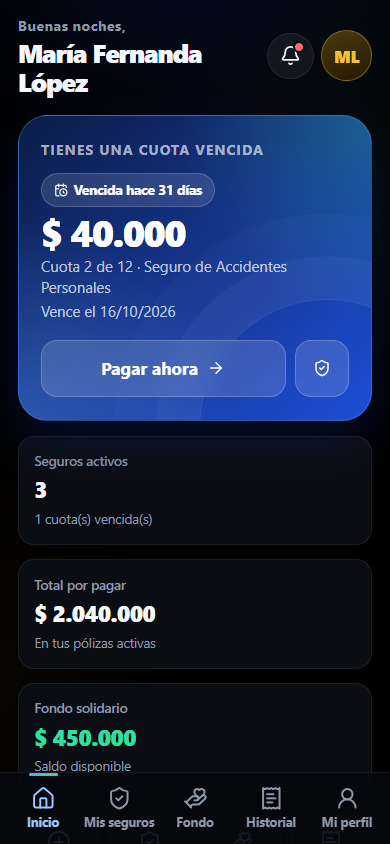
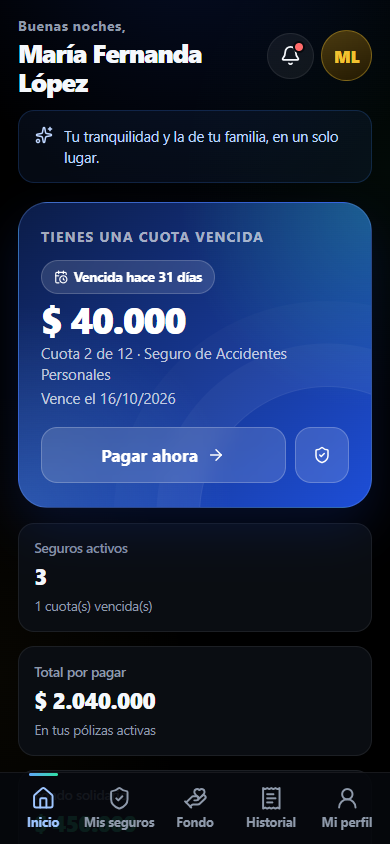
feat: configuracion global conectada y correccion de arranque

diff --git a/src/screens/admin/AdminSettings.tsx b/src/screens/admin/AdminSettings.tsx
@@ -405,23 +405,18 @@ export function AdminSettings() {
           <section className="card stack">
             <h2 className="card-title">Reglas de seguros y pagos</h2>
             <div className="list">
-              {[
-                { key: 'allowPurchase' as const, label: 'Permitir compra de seguros', sub: 'Los usuarios pueden adquirir pólizas desde el catálogo.' },
-                { key: 'showCatalogToGuests' as const, label: 'Mostrar catálogo sin sesión', sub: 'Solo informativo en la DEMO actual.' },
-              ].map((item) => (
-                <label key={item.key} className="list-row" style={{ cursor: 'pointer' }}>
-                  <span className="list-row__body">
-                    <span className="list-row__title">{item.label}</span>
-                    <span className="list-row__sub">{item.sub}</span>
-                  </span>
-                  <input
-                    type="checkbox"
-                    checked={Boolean(insurance[item.key])}
-                    onChange={(e) => setInsurance((i) => ({ ...i, [item.key]: e.target.checked }))}
-                    style={{ width: '1.4rem', height: '1.4rem', accentColor: '#3b82f6' }}
-                  />
-                </label>
-              ))}
+              <label className="list-row" style={{ cursor: 'pointer' }}>
+                <span className="list-row__body">
+                  <span className="list-row__title">Permitir compra de seguros</span>
+                  <span className="list-row__sub">Los usuarios pueden adquirir pólizas desde el catálogo.</span>
+                </span>
+                <input
+                  type="checkbox"
+                  checked={insurance.allowPurchase}
+                  onChange={(e) => setInsurance((i) => ({ ...i, allowPurchase: e.target.checked }))}
+                  style={{ width: '1.5rem', height: '1.5rem', accentColor: '#3b82f6' }}
+                />
+              </label>
             </div>
             <SelectInput
               label="Periodicidad predeterminada"
@@ -433,27 +428,17 @@ export function AdminSettings() {
                 { value: 'weekly', label: 'Semanal' },
                 { value: 'annual', label: 'Anual' },
               ]}
+              hint="Se preselecciona al comprar un seguro que tenga esa modalidad."
             />
-            <div className="grid grid--2">
-              <Field label="Días de gracia" hint="Días después del vencimiento antes de reportar mora.">
-                <input
-                  className="input"
-                  type="number"
-                  min={0}
-                  value={insurance.graceDays}
-                  onChange={(e) => setInsurance((i) => ({ ...i, graceDays: Number(e.target.value) }))}
-                />
-              </Field>
-              <Field label="Días de recordatorio" hint="Antelación de los avisos de pago.">
-                <input
-                  className="input"
-                  type="number"
-                  min={1}
-                  value={insurance.reminderDays}
-                  onChange={(e) => setInsurance((i) => ({ ...i, reminderDays: Number(e.target.value) }))}
-                />
-              </Field>
-            </div>
+            <Field label="Días de recordatorio" hint="Antelación de los avisos de cuota próxima a vencer.">
+              <input
+                className="input"
+                type="number"
+                min={1}
+                value={insurance.reminderDays}
+                onChange={(e) => setInsurance((i) => ({ ...i, reminderDays: Number(e.target.value) }))}
+              />
+            </Field>
             <div className="banner">
               <CircleAlert size={17} style={{ flexShrink: 0 }} />
               <span>Los cambios aplican a nuevas operaciones. Las pólizas existentes conservan sus condiciones.</span>

diff --git a/src/screens/app/HomeScreen.tsx b/src/screens/app/HomeScreen.tsx
@@ -5,9 +5,11 @@ import {
   CalendarClock,
   HandHeart,
   Landmark,
+  Megaphone,
   PlusCircle,
   ReceiptText,
   ShieldCheck,
+  Sparkles,
   Wallet,
 } from 'lucide-react'
 import { useAppState } from '../../hooks/useApp'
@@ -57,6 +59,32 @@ export function HomeScreen() {
           </button>
         </div>
       </div>
+
+      {(state.settings.notifications.announcementActive || state.settings.texts.homeBanner) && (
+        <div
+          className={`banner ${state.settings.notifications.announcementActive ? 'banner--gold' : ''}`}
+          style={{ marginTop: '0.8rem', alignItems: 'flex-start' }}
+          role="status"
+        >
+          {state.settings.notifications.announcementActive ? (
+            <Megaphone size={18} style={{ flexShrink: 0, marginTop: '0.05rem' }} />
+          ) : (
+            <Sparkles size={18} style={{ flexShrink: 0, marginTop: '0.05rem' }} />
+          )}
+          <div style={{ minWidth: 0 }}>
+            {state.settings.notifications.announcementActive && (
+              <strong style={{ display: 'block', marginBottom: '0.1rem' }}>
+                {state.settings.notifications.announcementTitle}
+              </strong>
+            )}
+            <span>
+              {state.settings.notifications.announcementActive
+                ? state.settings.notifications.announcementBody
+                : state.settings.texts.homeBanner}
+            </span>
+          </div>
+        </div>
+      )}
 
       {next ? (
         <section className="hero" style={{ marginTop: '1.1rem' }} aria-label="Próximo pago">

diff --git a/src/components/ui/common.tsx b/src/components/ui/common.tsx
@@ -1,4 +1,4 @@
-import type { ReactNode } from 'react'
+import { useState, type ReactNode } from 'react'
 import {
   ArrowLeft,
   BadgeCheck,
@@ -244,9 +244,7 @@ export function ProductIcon({
 export function LoadingScreen({ message = 'Cargando tu información…' }: { message?: string }) {
   return (
     <div className="splash">
-      <div className="brand__mark brand__mark--lg" aria-hidden="true">
-        FP
-      </div>
+      <BrandMark size="lg" />
       <div className="splash__spinner" aria-hidden="true" />
       <div>
         <p className="strong">{message}</p>
@@ -254,6 +252,21 @@ export function LoadingScreen({ message = 'Cargando tu información…' }: { mes
           FinPoliza
         </p>
       </div>
+    </div>
+  )
+}
+
+export function BrandMark({ size = 'md' }: { size?: 'md' | 'lg' }) {
+  const { settings } = useAppState()
+  const [failed, setFailed] = useState(false)
+  const logo = settings?.company?.logoUrl?.trim()
+  return (
+    <div className={`brand__mark ${size === 'lg' ? 'brand__mark--lg' : ''}`} aria-hidden="true">
+      {logo && !failed ? (
+        <img src={logo} alt="" className="brand__mark__img" onError={() => setFailed(true)} />
+      ) : (
+        'FP'
+      )}
     </div>
   )
 }

diff --git a/src/services/policies.ts b/src/services/policies.ts
@@ -1,6 +1,6 @@
 import type { Installment, Payment, PaymentMethod, Policy } from '../types'
 import { addPeriod, nowISO, todayISO } from '../lib/dates'
-import { formatTime } from '../lib/format'
+import { formatMoney, formatTime } from '../lib/format'
 import { uid } from '../lib/id'
 import { commit, hasPermission, requireSession, store } from './store'
 import { makeAudit } from './audit'
@@ -147,7 +147,7 @@ export async function payInstallment(input: PayInstallmentInput): Promise<Paymen
   const notification = makeNotification(ownerId, {
     type: 'payment_received',
     title: 'Pago registrado',
-    body: `Registramos tu pago de la cuota ${installment.number} por un valor de $${installment.amount.toLocaleString('es-CO')}.`,
+    body: `${state.settings.notifications.templates.paymentReceived} Cuota ${installment.number} de ${policy.snapshot.name} por ${formatMoney(installment.amount)}.`,
     link: policy ? `/seguros/${policy.id}` : '/movimientos',
   })
 

diff --git a/src/screens/auth/WelcomeScreen.tsx b/src/screens/auth/WelcomeScreen.tsx
@@ -3,7 +3,7 @@ import { useNavigate } from 'react-router-dom'
 import { ArrowRight, ChevronRight, HandHeart, Lock, ShieldCheck, Sparkles, Wallet } from 'lucide-react'
 import { useAppState } from '../../hooks/useApp'
 import { Sheet } from '../../components/ui/Sheet'
-import { DemoDisclaimer } from '../../components/ui/common'
+import { BrandMark, DemoDisclaimer } from '../../components/ui/common'
 
 const DEMO_USERS = [
   { name: 'María Fernanda López', email: 'maria@demo.com', password: 'Demo123*', detail: '3 seguros · fondo solidario' },
@@ -23,9 +23,7 @@ export function WelcomeScreen() {
   return (
     <div className="auth">
       <div className="brand" style={{ paddingTop: '0.5rem' }}>
-        <div className="brand__mark" aria-hidden="true">
-          FP
-        </div>
+        <BrandMark />
         <div>
           <div className="brand__name">{settings.company.appName}</div>
           <div className="brand__tag">{settings.company.tagline}</div>

diff --git a/src/data/defaults.ts b/src/data/defaults.ts
@@ -76,7 +76,7 @@ export const DEFAULT_SETTINGS: AppSettings = {
       'FinPoliza protege tus datos personales. La información suministrada se utiliza únicamente para la administración de tu cuenta y tus pólizas. En esta demostración todos los datos son ficticios y se almacenan localmente en tu dispositivo.',
     demoDisclaimer:
       'Estás en una DEMO de FinPoliza. Ninguna operación mueve dinero real.',
-    homeBanner: 'Este mes proteges a tu familia con 3 seguros activos',
+    homeBanner: 'Tu tranquilidad y la de tu familia, en un solo lugar.',
     loginMessage: 'Ingresa para consultar tus seguros y tu fondo solidario.',
   },
   fund: {
@@ -100,9 +100,7 @@ export const DEFAULT_SETTINGS: AppSettings = {
   insurance: {
     allowPurchase: true,
     defaultPeriodicity: 'monthly',
-    graceDays: 5,
     reminderDays: 7,
-    showCatalogToGuests: false,
   },
   notifications: {
     enabled: true,

diff --git a/src/screens/auth/ForgotPasswordScreen.tsx b/src/screens/auth/ForgotPasswordScreen.tsx
@@ -5,7 +5,7 @@ import { useAppState } from '../../hooks/useApp'
 import { resetPasswordDemo } from '../../services/auth'
 import { checkPasswordStrength } from '../../lib/crypto'
 import { Field, PasswordInput, TextInput } from '../../components/ui/forms'
-import { DemoDisclaimer } from '../../components/ui/common'
+import { BrandMark, DemoDisclaimer } from '../../components/ui/common'
 import { useToast } from '../../components/ui/Feedback'
 
 export function ForgotPasswordScreen() {
@@ -66,9 +66,7 @@ export function ForgotPasswordScreen() {
       </button>
 
       <div className="brand" style={{ marginBottom: '1.4rem' }}>
-        <div className="brand__mark" aria-hidden="true">
-          FP
-        </div>
+        <BrandMark />
         <div>
           <div className="brand__name">{settings.company.appName}</div>
           <div className="brand__tag">Recuperar acceso</div>

diff --git a/src/services/fund.ts b/src/services/fund.ts
@@ -52,7 +52,7 @@ export async function depositToFund(amount: number): Promise<FundOperationResult
   const notification = makeNotification(session.id, {
     type: 'fund_deposit',
     title: 'Aportación registrada',
-    body: `Recibimos tu aportación de ${formatMoney(amount)} al Fondo Solidario.`,
+    body: `${state.settings.notifications.templates.deposit} Aportaste ${formatMoney(amount)}.`,
     link: '/fondo',
   })
 
@@ -104,7 +104,7 @@ export async function withdrawFromFund(amount: number): Promise<FundOperationRes
   const notification = makeNotification(session.id, {
     type: 'fund_withdrawal',
     title: 'Retiro procesado',
-    body: `Procesamos tu retiro de ${formatMoney(amount)}. Tu nuevo saldo está actualizado.`,
+    body: `${state.settings.notifications.templates.withdrawal} Retiraste ${formatMoney(amount)}.`,
     link: '/fondo',
   })
 

diff --git a/src/screens/auth/LoginScreen.tsx b/src/screens/auth/LoginScreen.tsx
@@ -4,7 +4,7 @@ import { ArrowRight, CircleAlert, LoaderCircle, LockKeyhole, Mail } from 'lucide
 import { useAppState } from '../../hooks/useApp'
 import { signIn } from '../../services/auth'
 import { Field, PasswordInput } from '../../components/ui/forms'
-import { DemoDisclaimer } from '../../components/ui/common'
+import { BrandMark, DemoDisclaimer } from '../../components/ui/common'
 import { useToast } from '../../components/ui/Feedback'
 
 const QUICK = [
@@ -53,9 +53,7 @@ export function LoginScreen() {
       </button>
 
       <div className="brand" style={{ marginBottom: '1.6rem' }}>
-        <div className="brand__mark" aria-hidden="true">
-          FP
-        </div>
+        <BrandMark />
         <div>
           <div className="brand__name">{settings.company.appName}</div>
           <div className="brand__tag">{settings.company.tagline}</div>

diff --git a/src/screens/admin/AdminAnnouncements.tsx b/src/screens/admin/AdminAnnouncements.tsx
@@ -16,7 +16,7 @@ export function AdminAnnouncements() {
   const confirm = useConfirm()
   const session = state.session!
   const [title, setTitle] = useState('')
-  const [body, setBody] = useState('')
+  const [body, setBody] = useState(state.settings.notifications.templates.announcement)
   const [link, setLink] = useState('')
   const [error, setError] = useState<string | null>(null)
   const [sending, setSending] = useState(false)
@@ -46,7 +46,7 @@ export function AdminAnnouncements() {
       await publishAnnouncement(title, body, link.trim() || undefined)
       toast.success('Aviso publicado para todos los usuarios.')
       setTitle('')
-      setBody('')
+      setBody(state.settings.notifications.templates.announcement)
       setLink('')
     } catch (err) {
       setError(err instanceof Error ? err.message : 'No se pudo publicar el aviso.')

diff --git a/src/screens/app/CompanyInfoScreen.tsx b/src/screens/app/CompanyInfoScreen.tsx
@@ -10,7 +10,7 @@ import {
   ShieldCheck,
 } from 'lucide-react'
 import { useAppState } from '../../hooks/useApp'
-import { ScreenHeader } from '../../components/ui/common'
+import { BrandMark, ScreenHeader } from '../../components/ui/common'
 
 export function CompanyInfoScreen() {
   const { settings } = useAppState()
@@ -23,9 +23,7 @@ export function CompanyInfoScreen() {
 
       <section className="hero hero--neutral">
         <div className="row" style={{ gap: '0.9rem', alignItems: 'center' }}>
-          <div className="brand__mark brand__mark--lg" aria-hidden="true">
-            FP
-          </div>
+          <BrandMark size="lg" />
           <div>
             <div className="hero__eyebrow">Compañía de seguros</div>
             <h2 style={{ fontSize: '1.5rem', fontWeight: 800, letterSpacing: '-0.035em', marginTop: '0.15rem' }}>

diff --git a/src/components/layout/AdminLayout.tsx b/src/components/layout/AdminLayout.tsx
@@ -14,6 +14,7 @@ import {
 import { useAppState } from '../../hooks/useApp'
 import { hasPermission } from '../../services/store'
 import { initials } from '../../lib/format'
+import { BrandMark } from '../ui/common'
 
 const ITEMS = [
   { to: '/admin', label: 'Panel', icon: LayoutDashboard, permission: 'dashboard.view', end: true },
@@ -37,9 +38,7 @@ export function AdminLayout() {
     <div className="admin-shell">
       <header className="admin-topbar">
         <div className="admin-topbar__inner">
-          <div className="brand__mark" aria-hidden="true">
-            FP
-          </div>
+          <BrandMark />
           <div style={{ flex: 1, minWidth: 0 }}>
             <div className="admin-topbar__title">Panel administrativo</div>
             <div className="admin-topbar__sub">
